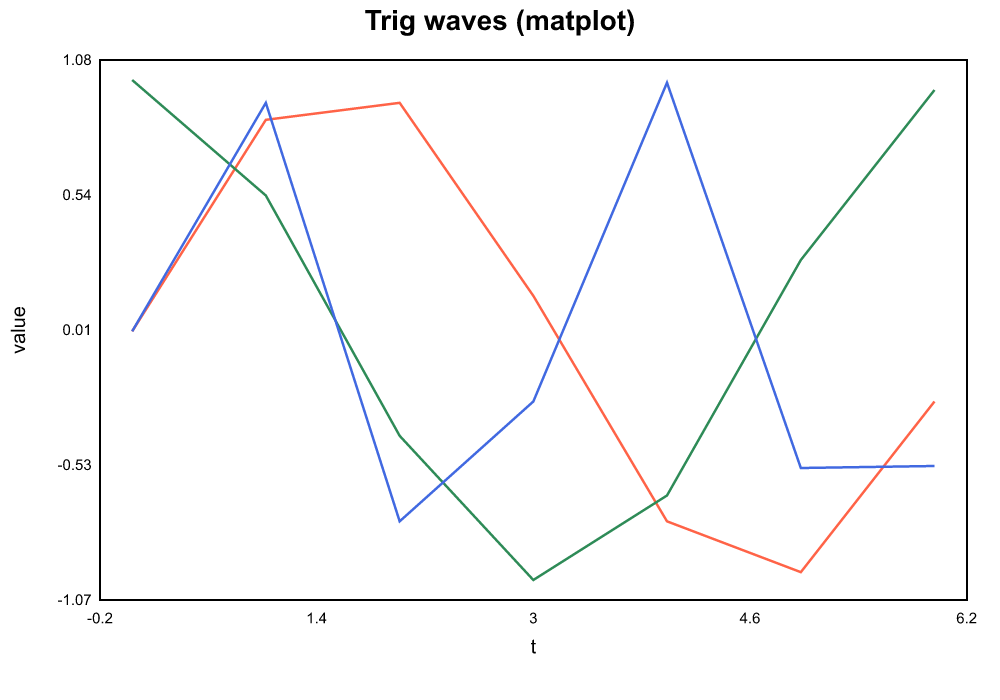
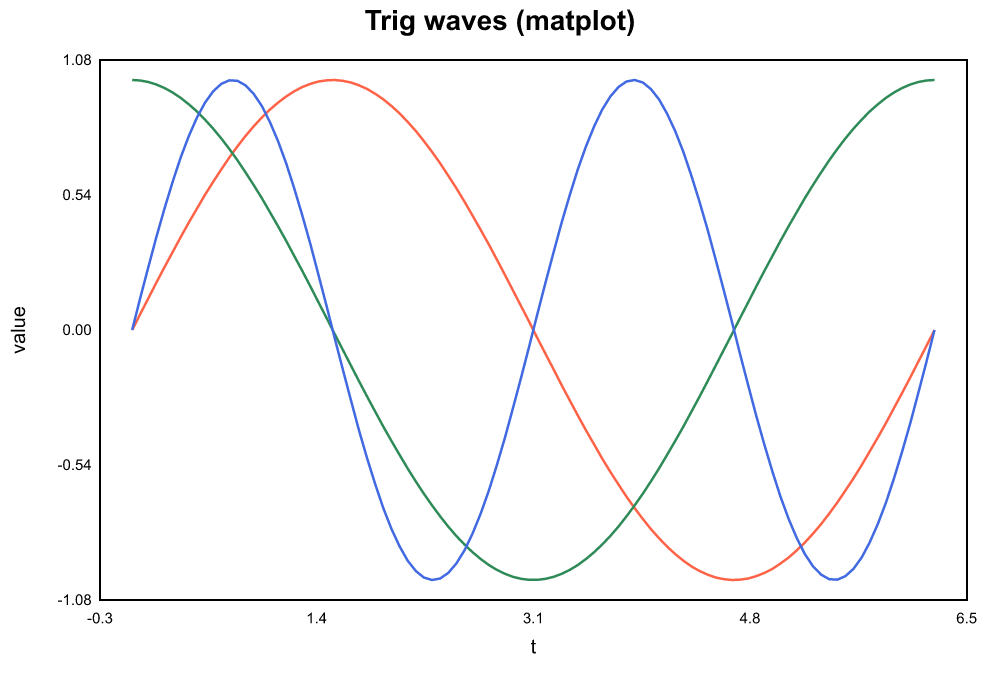
graphics: fix abline(lm), seq(length.out), pairs axis labels; add las + mar to all plots
- abline(lm(y~x)) now extracts intercept/slope from the model's
  coefficients instead of drawing the (0,1) y=x default line
- seq(from,to,length.out=n) honours length.out (n evenly spaced points);
  previously fell back to by=1 (e.g. seq(0,2*pi,length.out=100) gave 7)
- pairs() draws alternating outer-edge axis tick labels and now honours
  the shared graphical params (las / col.axis / cex.axis) like other plots
- barplot/boxplot suppress numeric ticks on the categorical x-axis and
  rotate category labels per las (0/1 horizontal default, 2/3 vertical)
- all plots honour per-call mar= and par(mar=) via resolve_margins(),
  falling back to each plot's tuned pixel default
- regenerated samples/graph_gallery.r2 screenshots with the fixes

diff --git a/crates/r2-graphics/src/plots.rs b/crates/r2-graphics/src/plots.rs
@@ -72,6 +72,44 @@ impl LabelOpts {
 fn num(v: RVal) -> Option<f64> { v.as_reals().ok()?.into_iter().next()? }
 fn int(v: RVal) -> Option<i32> { v.as_reals().ok()?.into_iter().next()?.map(|x| x as i32) }
 
+/// Resolve a plot's pixel margins `(ml, mr, mt, mb)`. Precedence (R-faithful):
+///   1. a per-call `mar = c(bottom, left, top, right)` argument (in "lines"),
+///   2. else `par(mar=)` if the user changed it from R's default,
+///   3. else the plot's own tuned pixel default.
+/// `mar` lines are scaled to pixels at ~14 px/line (matches `bi_plot_new`).
+pub(crate) fn resolve_margins(a: &[EvalArg], default_px: (f64, f64, f64, f64)) -> (f64, f64, f64, f64) {
+    const LP: f64 = 14.0;
+    const RDEF: [f64; 4] = [5.1, 4.1, 4.1, 2.1]; // R's par("mar") default (b,l,t,r)
+    // (b, l, t, r) lines → (ml, mr, mt, mb) px.
+    let to_px = |m: [f64; 4]| (m[1] * LP, m[3] * LP, m[2] * LP, m[0] * LP);
+    if let Some(v) = gn(a, "mar") {
+        let m: Vec<f64> = v.as_reals().ok().map(|r| r.into_iter().flatten().collect()).unwrap_or_default();
+        if m.len() >= 4 { return to_px([m[0], m[1], m[2], m[3]]); }
+    }
+    let par_mar = with_device(|d| d.params.mar);
+    if (0..4).any(|i| (par_mar[i] - RDEF[i]).abs() > 1e-6) {
+        return to_px(par_mar);
+    }
+    default_px
+}
+
+/// Render a category label under an x-axis tick at `cx`, honoring `las`
+/// (matches R): `las` 0/1 → horizontal & centred (the default); 2/3 →
+/// rotated 90° (vertical), for long/many category names. `axis_y` is the
+/// pixel y of the axis baseline the labels hang below.
+pub(crate) fn cat_x_label(cx: f64, axis_y: f64, las: i32, col: &str, fs: f64, text: &str) -> String {
+    let t = escape_xml(text);
+    if matches!(las, 2 | 3) {
+        let ty = axis_y + 12.0;
+        format!(r#"<text x="{:.1}" y="{:.1}" text-anchor="end" font-family="Arial, Helvetica, sans-serif" font-size="{:.0}px" fill="{}" transform="rotate(-90,{:.1},{:.1})">{}</text>"#,
+                cx, ty, fs, col, cx, ty, t)
+    } else {
+        let ty = axis_y + 16.0;
+        format!(r#"<text x="{:.1}" y="{:.1}" text-anchor="middle" font-family="Arial, Helvetica, sans-serif" font-size="{:.0}px" fill="{}">{}</text>"#,
+                cx, ty, fs, col, t)
+    }
+}
+
 /// R's default colour palette (1-based). `col=2` → red, etc. Index 0 /
 /// out-of-range wraps like R's `palette()` recycling.
 pub(crate) fn r_palette(i: i32) -> &'static str {
@@ -229,6 +267,16 @@ pub(crate) fn render_axis_ticks(p: &PanelRect,
                                 xmin: f64, _xmax: f64, ymin: f64, _ymax: f64,
                                 xrange: f64, yrange: f64,
                                 o: &LabelOpts) -> String {
+    render_axis_ticks_ex(p, xmin, _xmax, ymin, _ymax, xrange, yrange, o, true)
+}
+
+/// As `render_axis_ticks`, but `draw_x=false` suppresses the numeric x-axis
+/// ticks — used by categorical plots (barplot, boxplot) that draw their own
+/// category names along the x-axis and must not overlay a numeric scale.
+pub(crate) fn render_axis_ticks_ex(p: &PanelRect,
+                                xmin: f64, _xmax: f64, ymin: f64, _ymax: f64,
+                                xrange: f64, yrange: f64,
+                                o: &LabelOpts, draw_x: bool) -> String {
     let mut s = String::new();
     let fs = 9.0 * o.cex_axis;
     // x-axis tick rotation: las=0 or 1 horizontal, las=2 or 3 vertical.
@@ -243,12 +291,12 @@ pub(crate) fn render_axis_ticks(p: &PanelRect,
         // x-axis tick label below the panel.
         let tx = px;
         let ty = p.oy + p.mt + p.ph + 14.0;
-        if x_rot {
+        if draw_x && x_rot {
             s.push_str(&format!(
                 r#"<text x="{:.0}" y="{}" text-anchor="end" font-family="Arial, Helvetica, sans-serif" font-size="{:.1}px" fill="{}" transform="rotate(-90,{:.0},{})">{}</text>"#,
                 tx, ty, fs, o.col_axis, tx, ty, fmt_tick(xv, xrange)
             ));
-        } else {
+        } else if draw_x {
             s.push_str(&format!(
                 r#"<text x="{:.0}" y="{}" text-anchor="middle" font-family="Arial, Helvetica, sans-serif" font-size="{:.1}px" fill="{}">{}</text>"#,
                 tx, ty, fs, o.col_axis, fmt_tick(xv, xrange)
@@ -318,7 +366,7 @@ pub fn bi_plot(a: &[EvalArg]) -> Result<RVal, R2Err> {
     let ptype  = gn(a, "type").map(|v| val_to_str(&v)).unwrap_or_else(|| "p".into());
 
     let (ox, oy, w, h) = begin_plot();
-    let (ml, mr, mt, mb) = (60.0, 20.0, 36.0, 40.0);
+    let (ml, mr, mt, mb) = resolve_margins(a, (60.0, 20.0, 36.0, 40.0));
     let pw = w - ml - mr;
     let ph = h - mt - mb;
 
@@ -506,9 +554,24 @@ pub fn bi_pairs(a: &[EvalArg]) -> Result<RVal, R2Err> {
     // returns its (x, y, w, h); with no mfrow active that's the full canvas.
     let (ox, oy, w, h) = begin_plot();
 
-    let top = if main.is_empty() { 8.0 } else { 28.0 };
-    let cell_w = w / n as f64;
-    let cell_h = (h - top) / n as f64;
+    // Per-variable data range, computed once: the x-axis of column j and the
+    // y-axis of row i both use variable k's range (xr guarded against zero).
+    let rng: Vec<(f64, f64, f64)> = cols.iter().map(|c| {
+        let (lo, hi) = minmax(c);
+        let r = if (hi - lo).abs() < 1e-10 { 1.0 } else { hi - lo };
+        (lo, hi, r)
+    }).collect();
+
+    // Reserve outer margins for the edge tick labels (R's oma equivalent):
+    // left/bottom always carry ticks; top/right carry the alternating ones.
+    let title_h = if main.is_empty() { 4.0 } else { 24.0 };
+    let (oml, omr, omt, omb) = (34.0, 30.0, 16.0, 22.0);
+    let gx = ox + oml;
+    let gy = oy + title_h + omt;
+    let gw = (w - oml - omr).max(1.0);
+    let gh = (h - title_h - omt - omb).max(1.0);
+    let cell_w = gw / n as f64;
+    let cell_h = gh / n as f64;
     let pad = 6.0;
 
     let mut frag = String::new();
@@ -518,10 +581,16 @@ pub fn bi_pairs(a: &[EvalArg]) -> Result<RVal, R2Err> {
             ox + w / 2.0, oy + 18.0, escape_xml(&main)));
     }
 
+    // Inner plotting region of a cell (cell minus padding minus a 4px inset).
+    let in_x = |j: usize| gx + j as f64 * cell_w + pad + 4.0;
+    let in_w = (cell_w - 2.0 * pad - 8.0).max(1.0);
+    let in_y = |i: usize| gy + i as f64 * cell_h + pad + 4.0;
+    let in_h = (cell_h - 2.0 * pad - 8.0).max(1.0);
+
     for i in 0..n {            // row → y variable
         for j in 0..n {        // col → x variable
-            let cx0 = ox + j as f64 * cell_w + pad;
-            let cy0 = oy + top + i as f64 * cell_h + pad;
+            let cx0 = gx + j as f64 * cell_w + pad;
+            let cy0 = gy + i as f64 * cell_h + pad;
             let cwd = cell_w - 2.0 * pad;
             let chd = cell_h - 2.0 * pad;
             // Cell border.
@@ -534,22 +603,57 @@ pub fn bi_pairs(a: &[EvalArg]) -> Result<RVal, R2Err> {
                     r#"<text x="{:.1}" y="{:.1}" text-anchor="middle" font-family="Arial, Helvetica, sans-serif" font-size="13px" font-weight="bold" fill="black">{}</text>"#,
                     cx0 + cwd / 2.0, cy0 + chd / 2.0 + 4.0, escape_xml(&names[i])));
             } else {
+                let (xmin, _, xr) = rng[j];
+                let (ymin, _, yr) = rng[i];
                 let xs = &cols[j];
                 let ys = &cols[i];
-                let (xmin, xmax) = minmax(xs);
-                let (ymin, ymax) = minmax(ys);
-                let xr = if (xmax - xmin).abs() < 1e-10 { 1.0 } else { xmax - xmin };
-                let yr = if (ymax - ymin).abs() < 1e-10 { 1.0 } else { ymax - ymin };
-                let (inx, iny) = (cx0 + 4.0, cy0 + 4.0);
-                let (inw, inh) = (cwd - 8.0, chd - 8.0);
+                let (inx, iny) = (in_x(j), in_y(i));
                 let m = xs.len().min(ys.len());
                 for k in 0..m {
-                    let px = inx + (xs[k] - xmin) / xr * inw;
-                    let py = iny + inh - (ys[k] - ymin) / yr * inh;
+                    let px = inx + (xs[k] - xmin) / xr * in_w;
+                    let py = iny + in_h - (ys[k] - ymin) / yr * in_h;
                     let c = &point_cols[k % point_cols.len()];
                     frag.push_str(&point_symbol(px, py, 2.0 * cex, pch, c));
                 }
             }
+        }
+    }
+
+    // Outer-edge tick labels, alternating sides so each variable's scale is
+    // drawn exactly once (R-faithful): column j → bottom if even, top if odd;
+    // row i → left if even, right if odd. Three ticks per axis (min/mid/max).
+    // Honor the shared graphical params (par() + per-call) like every other
+    // plot: col.axis / cex.axis colour & size the ticks, las rotates them
+    // (x on las 2/3, y on las 0/3 — same rule as render_axis_ticks).
+    let opts = LabelOpts::from_args(a);
+    let fss = 8.0 * opts.cex_axis;
+    let col = opts.col_axis.clone();
+    let (x_rot, y_rot) = (matches!(opts.las, 2 | 3), matches!(opts.las, 0 | 3));
+    let mut tick = |x: f64, y: f64, anchor: &str, rot: bool, txt: &str| {
+        let t = escape_xml(txt);
+        let xform = if rot { format!(r#" transform="rotate(-90,{:.1},{:.1})""#, x, y) } else { String::new() };
+        frag.push_str(&format!(
+            r#"<text x="{:.1}" y="{:.1}" text-anchor="{}" font-family="Arial, Helvetica, sans-serif" font-size="{:.0}px" fill="{}"{}>{}</text>"#,
+            x, y, anchor, fss, col, xform, t));
+    };
+    for j in 0..n {                       // x-axis ticks for column j
+        let (xmin, _, xr) = rng[j];
+        let on_top = j % 2 == 1;
+        let ty = if on_top { gy - 5.0 } else { gy + gh + 11.0 };
+        let anchor = if x_rot { "end" } else { "middle" };
+        for f in [0.0_f64, 0.5, 1.0] {
+            let px = in_x(j) + f * in_w;
+            tick(px, ty, anchor, x_rot, &fmt_tick(xmin + f * xr, xr));
+        }
+    }
+    for i in 0..n {                       // y-axis ticks for row i
+        let (ymin, _, yr) = rng[i];
+        let on_right = i % 2 == 1;
+        let anchor = if y_rot { "middle" } else if on_right { "start" } else { "end" };
+        let tx = if on_right { gx + gw + 4.0 } else { gx - 4.0 };
+        for f in [0.0_f64, 0.5, 1.0] {
+            let py = in_y(i) + in_h - f * in_h + 3.0;
+            tick(tx, py, anchor, y_rot, &fmt_tick(ymin + f * yr, yr));
         }
     }
 
@@ -744,7 +848,7 @@ pub fn bi_matplot(a: &[EvalArg]) -> Result<RVal, R2Err> {
     let xrange = xmax - xmin; let yrange = ymax - ymin;
 
     let (ox, oy, w, h) = begin_plot();
-    let (ml, mr, mt, mb) = (60.0, 20.0, 36.0, 40.0);
+    let (ml, mr, mt, mb) = resolve_margins(a, (60.0, 20.0, 36.0, 40.0));
     let pw = w - ml - mr; let ph = h - mt - mb;
     with_device(|d| d.coords = Some(crate::device::PlotCoords {
         px0: ox + ml, py0: oy + mt, pw, ph, xmin, xmax, ymin, ymax,
@@ -838,7 +942,7 @@ pub fn bi_hist(a: &[EvalArg]) -> Result<RVal, R2Err> {
     // mb tightened from 50 to 40: the new xlab placement (right
     // below tick labels) no longer needs the extra 10 px margin
     // and the plot region gets that height back.
-    let (ml, mr, mt, mb) = (60.0, 20.0, 36.0, 40.0);
+    let (ml, mr, mt, mb) = resolve_margins(a, (60.0, 20.0, 36.0, 40.0));
     let pw = w - ml - mr;
     let ph = h - mt - mb;
 
@@ -914,7 +1018,7 @@ pub fn bi_boxplot(a: &[EvalArg]) -> Result<RVal, R2Err> {
     }
 
     let (ox, oy, w, h) = begin_plot();
-    let (ml, mr, mt, mb) = (60.0, 30.0, 36.0, 50.0);
+    let (ml, mr, mt, mb) = resolve_margins(a, (60.0, 30.0, 36.0, 50.0));
     let pw = w - ml - mr;
     let ph = h - mt - mb;
 
@@ -965,19 +1069,16 @@ pub fn bi_boxplot(a: &[EvalArg]) -> Result<RVal, R2Err> {
         let by = map_y(q3); let bh = map_y(q1) - by;
         frag.push_str(&format!(r#"<rect x="{:.0}" y="{:.0}" width="{:.0}" height="{:.0}" fill="{}" stroke="{}"/>"#, cx - bw / 2.0, by, bw, bh, col_box, col_border));
         frag.push_str(&format!(r#"<line x1="{:.0}" y1="{:.0}" x2="{:.0}" y2="{:.0}" stroke="{}" stroke-width="2"/>"#, cx - bw / 2.0, map_y(median), cx + bw / 2.0, map_y(median), col_med));
-        // Group name beneath the box.
-        let label_y = oy + h - 8.0;
-        frag.push_str(&format!(
-            r#"<text x="{:.0}" y="{:.0}" text-anchor="middle" font-family="Arial, Helvetica, sans-serif" font-size="10px" fill="{}">{}</text>"#,
-            cx, label_y, opts.col_axis, escape_xml(name)
-        ));
+        // Group name beneath the box, honoring `las` (horizontal default,
+        // vertical for las=2/3) like R.
+        frag.push_str(&cat_x_label(cx, oy + mt + ph, opts.las, &opts.col_axis, 10.0, name));
     }
 
     // Shared chrome — title / subtitle / xlab / ylab + y-axis ticks.
     // No x-axis ticks (group names already drawn above).
     let panel = PanelRect { ox, oy, w, h, ml, mt, pw, ph };
     frag.push_str(&render_chrome(&panel, &title, &sub, &xlab, &ylab, &opts));
-    frag.push_str(&render_axis_ticks(&panel, 0.0, ng, all_min, all_max, ng.max(1.0), range, &opts));
+    frag.push_str(&render_axis_ticks_ex(&panel, 0.0, ng, all_min, all_max, ng.max(1.0), range, &opts, false));
 
     with_device(|d| d.svg_body.push_str(&frag));
     crate::device::finish_plot("boxplot.svg");
@@ -1015,7 +1116,7 @@ pub fn bi_barplot(a: &[EvalArg]) -> Result<RVal, R2Err> {
     let col_border = gn(a, "border").map(|v| val_to_str(&v)).unwrap_or_else(|| "black".into());
 
     let (ox, oy, w, h) = begin_plot();
-    let (ml, mr, mt, mb) = (60.0, 20.0, 36.0, 60.0);
+    let (ml, mr, mt, mb) = resolve_margins(a, (60.0, 20.0, 36.0, 60.0));
     let pw = w - ml - mr;
     let ph = h - mt - mb;
     let raw_max = heights.iter().cloned().fold(0.0f64, f64::max);
@@ -1043,20 +1144,16 @@ pub fn bi_barplot(a: &[EvalArg]) -> Result<RVal, R2Err> {
         ));
         let label = labels.get(i).map(|s| s.as_str()).unwrap_or("");
         if !label.is_empty() {
-            frag.push_str(&format!(
-                r#"<text x="{:.0}" y="{:.0}" text-anchor="middle" font-family="Arial, Helvetica, sans-serif" font-size="10px" fill="{}" transform="rotate(-30,{:.0},{:.0})">{}</text>"#,
-                bx + bw / 2.0, oy + h - mb + 16.0, opts.col_axis,
-                bx + bw / 2.0, oy + h - mb + 16.0, escape_xml(label)
-            ));
+            frag.push_str(&cat_x_label(bx + bw / 2.0, oy + mt + ph, opts.las, &opts.col_axis, 10.0, label));
         }
     }
 
     // Shared chrome — title, subtitle, xlab, ylab, y-axis ticks.
     let panel = PanelRect { ox, oy, w, h, ml, mt, pw, ph };
     frag.push_str(&render_chrome(&panel, &title, &sub, &xlab, &ylab, &opts));
-    frag.push_str(&render_axis_ticks(&panel, 0.0, heights.len() as f64,
+    frag.push_str(&render_axis_ticks_ex(&panel, 0.0, heights.len() as f64,
                                      0.0, max_h, heights.len().max(1) as f64,
-                                     max_h.max(1.0), &opts));
+                                     max_h.max(1.0), &opts, false));
 
     with_device(|d| d.svg_body.push_str(&frag));
     crate::device::finish_plot("barplot.svg");

diff --git a/crates/r2-engine/src/builtins/core.rs b/crates/r2-engine/src/builtins/core.rs
@@ -127,7 +127,28 @@ pub(crate) fn bi_class(_: &mut Engine, a: &[EvalArg], _: &EnvRef) -> Result<RVal
     Ok(RVal::Character(names.iter().map(|s| Some(Arc::from(s.as_str()))).collect(), Attrs::default()))
 }
 pub(crate) fn bi_is_na(_: &mut Engine, a: &[EvalArg], _: &EnvRef) -> Result<RVal, R2Err> { match &gv(a,0) { RVal::Numeric(v,_) => Ok(RVal::Logical(v.iter().map(|x| Some(x.is_none())).collect(), Attrs::default())), _ => Ok(rbool(false)) } }
-pub(crate) fn bi_seq(e: &mut Engine, a: &[EvalArg], _: &EnvRef) -> Result<RVal, R2Err> { let from = e.scalar_f64(&gv(a,0))?.unwrap_or(1.0); let to = e.scalar_f64(&gv(a,1))?.unwrap_or(1.0); let by = gn(a,"by").and_then(|v| e.scalar_f64(&v).ok().flatten()).unwrap_or(if from<=to {1.0} else {-1.0}); let mut r = Vec::new(); let mut c = from; if by>0.0 { while c<=to+1e-10 { r.push(Some(c)); c+=by; } } else if by<0.0 { while c>=to-1e-10 { r.push(Some(c)); c+=by; } } Ok(RVal::Numeric(r.into(), Attrs::default())) }
+pub(crate) fn bi_seq(e: &mut Engine, a: &[EvalArg], _: &EnvRef) -> Result<RVal, R2Err> {
+    let from = e.scalar_f64(&gv(a,0))?.unwrap_or(1.0);
+    let to = e.scalar_f64(&gv(a,1))?.unwrap_or(1.0);
+    // `length.out =` wins when supplied: exactly n evenly spaced points from
+    // `from` to `to` (R semantics). Previously ignored, so `seq(0, 2*pi,
+    // length.out=100)` fell back to by=1 and returned only 7 points.
+    let lengthout = gn(a,"length.out").or_else(|| gn(a,"length_out"))
+        .and_then(|v| e.scalar_f64(&v).ok().flatten()).map(|n| n as usize);
+    if let Some(n) = lengthout {
+        let r: Vec<Option<f64>> = match n {
+            0 => Vec::new(),
+            1 => vec![Some(from)],
+            _ => { let step = (to - from) / (n as f64 - 1.0);
+                   (0..n).map(|i| Some(from + step * i as f64)).collect() }
+        };
+        return Ok(RVal::Numeric(r.into(), Attrs::default()));
+    }
+    let by = gn(a,"by").and_then(|v| e.scalar_f64(&v).ok().flatten()).unwrap_or(if from<=to {1.0} else {-1.0});
+    let mut r = Vec::new(); let mut c = from;
+    if by>0.0 { while c<=to+1e-10 { r.push(Some(c)); c+=by; } } else if by<0.0 { while c>=to-1e-10 { r.push(Some(c)); c+=by; } }
+    Ok(RVal::Numeric(r.into(), Attrs::default()))
+}
 pub(crate) fn bi_rep(e: &mut Engine, a: &[EvalArg], _: &EnvRef) -> Result<RVal, R2Err> {
     let v = gv(a, 0);
     // `times = ` (default 1) and `each = ` (default 1). Both supported,

diff --git a/crates/r2-graphics/src/overlays.rs b/crates/r2-graphics/src/overlays.rs
@@ -104,8 +104,23 @@ pub fn bi_abline(a: &[EvalArg]) -> Result<RVal, R2Err> {
         format!(r#"<line x1="{:.1}" y1="{:.1}" x2="{:.1}" y2="{:.1}" stroke="{}" stroke-width="{:.1}"{}/>"#,
                 px, y1, px, y2, col, lwd, dash)
     } else {
-        let intercept = argf(a, "a").or_else(|| gv(a, 0).scalar_f64().ok().flatten()).unwrap_or(0.0);
-        let slope     = argf(a, "b").or_else(|| gv(a, 1).scalar_f64().ok().flatten()).unwrap_or(1.0);
+        // abline(lm(y ~ x)) — pull intercept (coef[0]) and slope (coef[1])
+        // from a fitted model object. Without this the model arg falls
+        // through to the (0, 1) defaults and draws a 45° y=x line.
+        let from_model = if let RVal::TypeInstance(inst) = gv(a, 0) {
+            inst.fields.get("coefficients")
+                .and_then(|v| v.as_reals().ok())
+                .map(|r| r.into_iter().flatten().collect::<Vec<f64>>())
+                .filter(|c| c.len() >= 2)
+                .map(|c| (c[0], c[1]))
+        } else { None };
+        let (intercept, slope) = match from_model {
+            Some(ab) => ab,
+            None => (
+                argf(a, "a").or_else(|| gv(a, 0).scalar_f64().ok().flatten()).unwrap_or(0.0),
+                argf(a, "b").or_else(|| gv(a, 1).scalar_f64().ok().flatten()).unwrap_or(1.0),
+            ),
+        };
         // Draw across the visible x-range at the data y = a + b*x.
         let (x1, y1) = c.to_px(c.xmin, intercept + slope * c.xmin);
         let (x2, y2) = c.to_px(c.xmax, intercept + slope * c.xmax);
